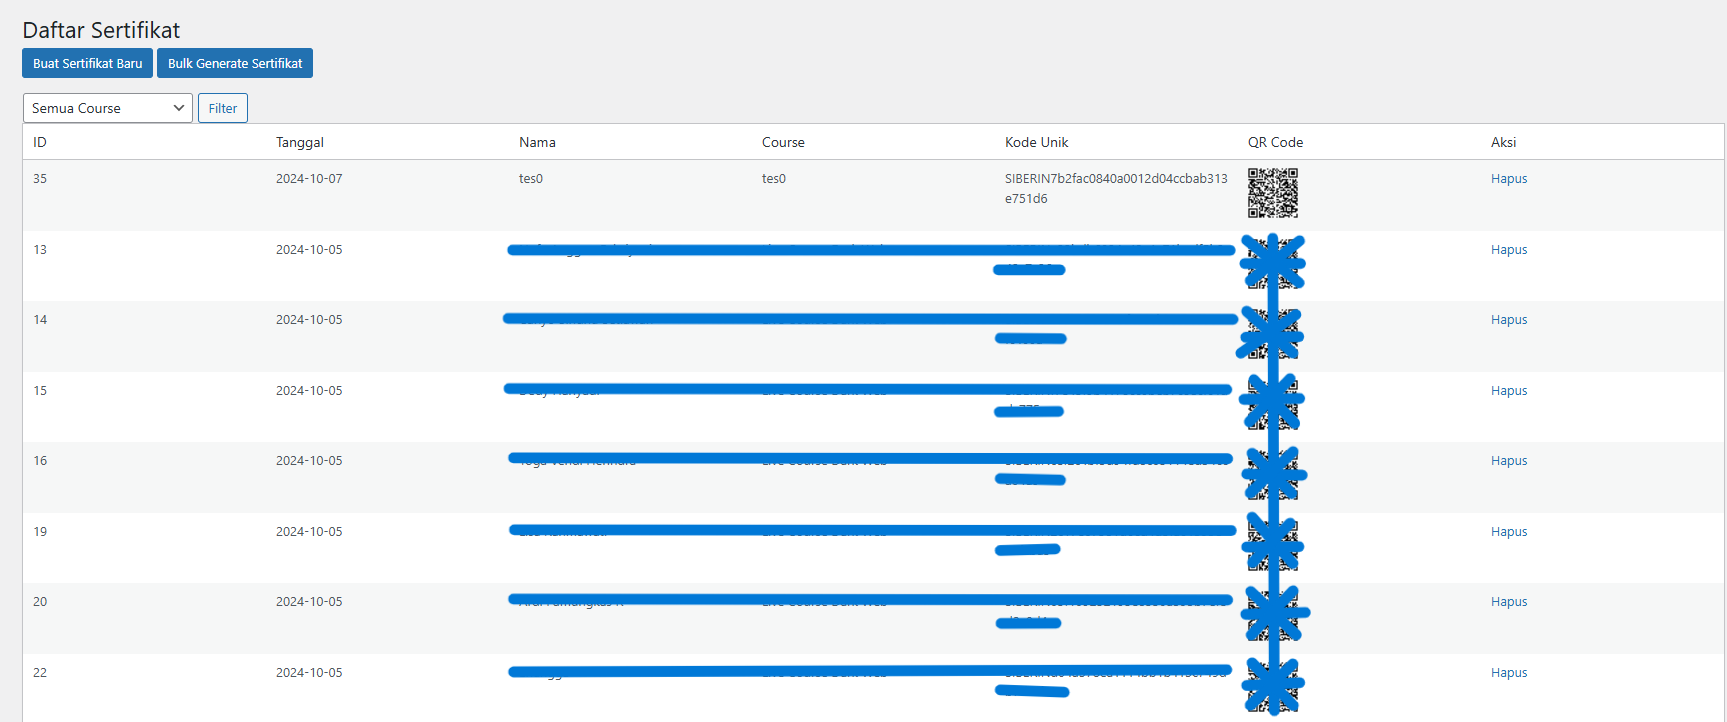
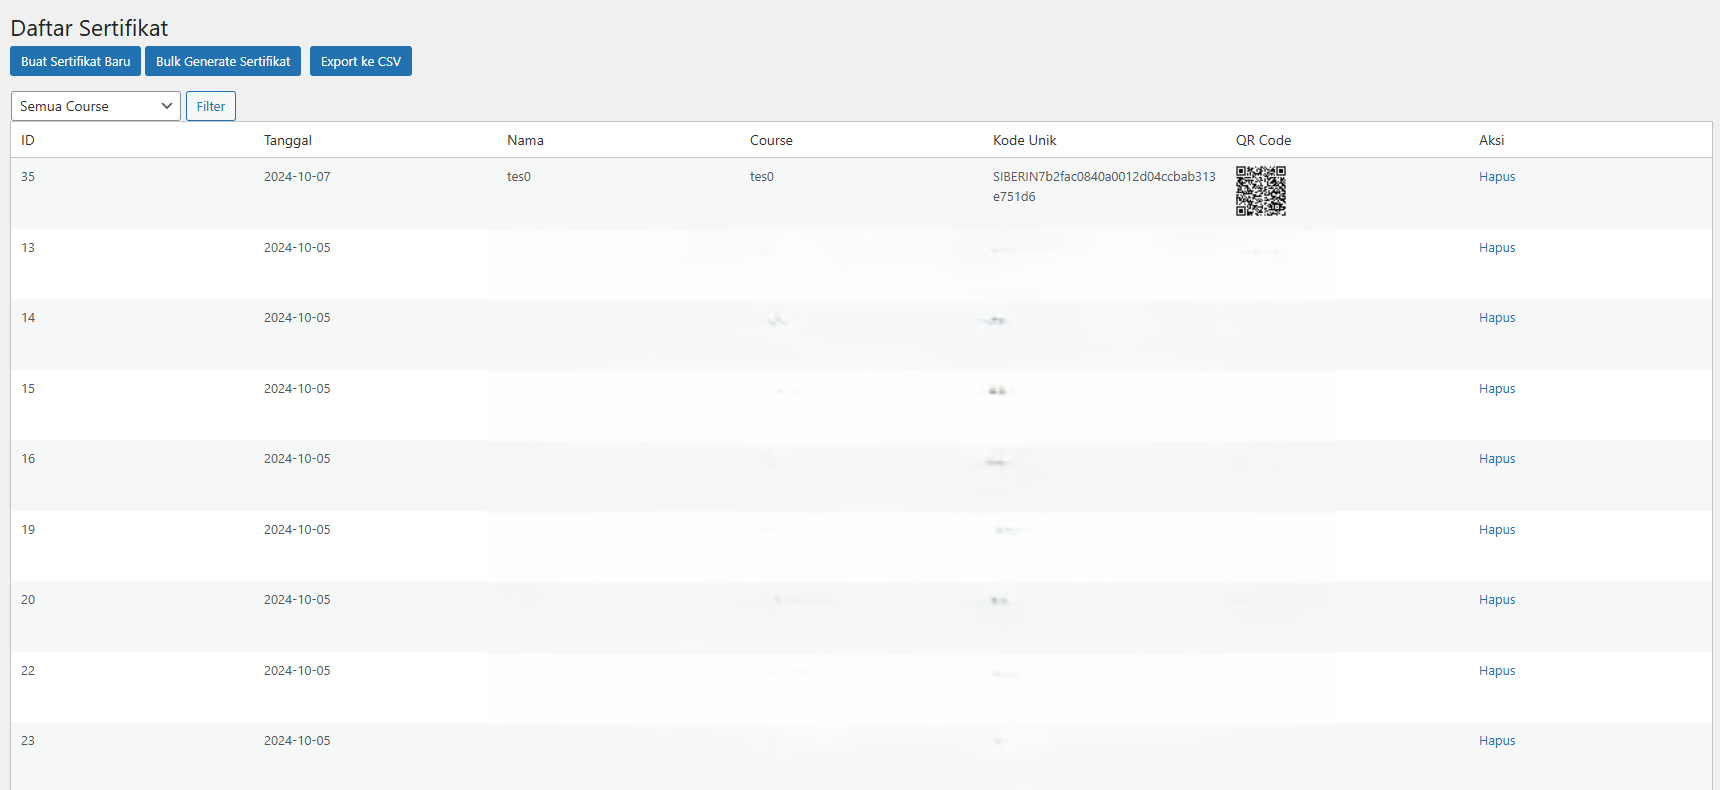
Images_18-03-2025

diff --git a/README.md b/README.md
@@ -135,9 +135,7 @@ Dikembangkan oleh **JackTekno ([zaky@siberin.id](mailto:zaky@siberin.id))**.
 ## Versi Akan Datang
 
 - 1.1: Menambahkan fitur custom id sertifikat diawal langsung pada dashboard wordpress. Seperti **SIBERIN**7b2fac0840a0012d04ccbab313e751d6
-- 1.x
-- ...
-- 2.0: Menambahkan fitur dukungan export.
+- 1.2: Menambahkan fitur dukungan export.
 
 ## Lisensi
 
